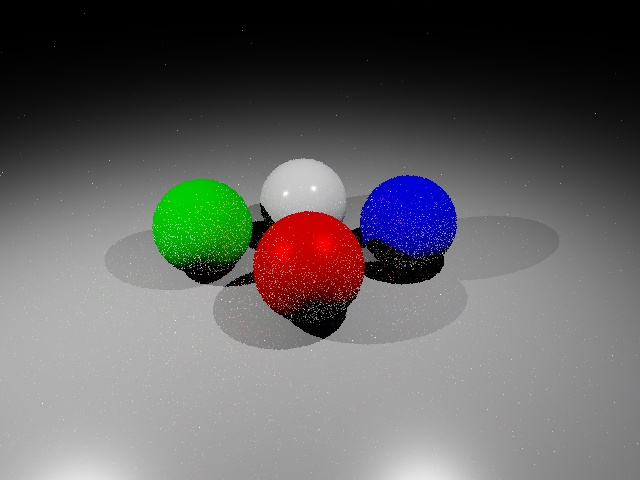
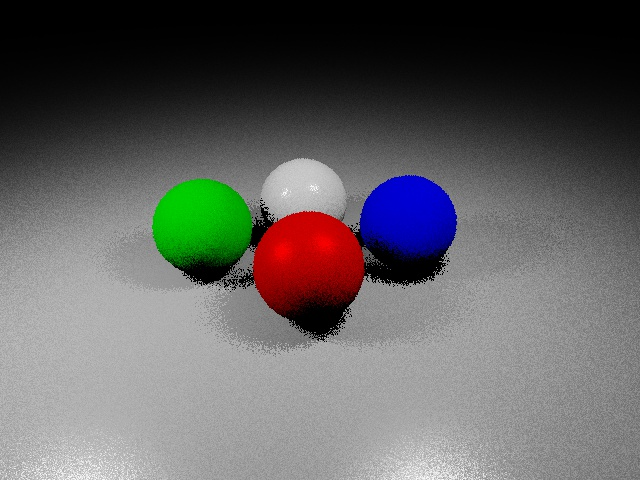
testing

diff --git a/assignment-3/hw3-starterCode/utility.cpp b/assignment-3/hw3-starterCode/utility.cpp
@@ -134,7 +134,9 @@ float Timer::getCurrentTime() {
 const vector<Object*>& Scene::getObjects() { return objects; }
 const vector<Triangle*>& Scene::getTriangles() { return triangles; }
 const vector<Sphere*>& Scene::getSpheres() { return spheres; }
-const vector<Light*>& Scene::getLights() { return lights; }
+const vector<Light*>& Scene::getLights() {
+	return lights;
+}
 void Scene::setAntiAliasingLevel(int antiAliasingLevel) {
 	numOfSubpixelsPerSide = std::max(0, (int)pow(2, std::max(0, antiAliasingLevel)));
 }
@@ -146,7 +148,7 @@ void Scene::setNumOfThreads(int num) {
 }
 void Scene::render() {
 	initializePixels();
-	sampleLights();
+	//sampleLights();
 
 	startTime = Timer::getInstance()->getCurrentTime();
 	printf("Rendering %s... \n", inputFilename);
@@ -450,7 +452,8 @@ int OpticalScene::load(const char* argv) {
 }
 void OpticalScene::calculatePixelColor(Pixel& pixel) {
 	// stratified sampling
-	vec3 color = ambient_light;
+	//vec3 color = ambient_light;
+	vec3 color;
 	vec3 rayColor;
 
 	float subcellSize = pixel.size / numOfSubpixelsPerSide;
@@ -620,46 +623,48 @@ vec3 OpticalMaterial::calculateLighting(Scene* scene, Ray& ray, vec3 position) {
 	vec3 color(0);
 
 	auto lights = scene->getLights();
-	for (int i = 0; i < lights.size(); i++) {
+	for (auto& light : lights) {
 		vec3 Le(0);
+		vec3 lightPosition = light->sample();
 
-		vec3 w_i = normalize(lights[i]->position - position);
+		vec3 w_i = normalize(lightPosition - position);
 		if (dot(w_i, normal) > 0.0f) {
 			Ray shadowRay(position, position + w_i);
-			if (!shadowRay.checkIfBlocked(scene->getObjects(), lights[i]->position)) {
-				Le = lights[i]->color;
+			if (!shadowRay.checkIfBlocked(scene->getObjects(), lightPosition)) {
+				Le = light->color;
 			}
 		}
-		float pdf = pow(distance(position, lights[i]->position), 2) / (abs(dot(lights[i]->normal, w_i)) * lights[i]->area());
+		float pdf = pow(distance(position, lightPosition), 2) / (abs(dot(light->normal, w_i)) * light->area());
 
 		float f0 = (scene->F0.x + scene->F0.y + scene->F0.z) / 3;
 		color += BRDF(f0, Le, normal, pdf, position, w_i, -ray.direction);
+
 	}
 
-	if (scene->isGlobalLightingEnabled) {
+	//if (scene->isGlobalLightingEnabled) {
 
-		vec3 w = (dot(normal, ray.direction) < 0) ? normal : -normal;
-		vec3 u = normalize(cross((abs(w.x) > 0.1) ? vec3(0.0, 1.0, 0.0) : vec3(1.0, 0.0, 0.0), w));
-		vec3 v = cross(w, u);
+	//	vec3 w = (dot(normal, ray.direction) < 0) ? normal : -normal;
+	//	vec3 u = normalize(cross((abs(w.x) > 0.1) ? vec3(0.0, 1.0, 0.0) : vec3(1.0, 0.0, 0.0), w));
+	//	vec3 v = cross(w, u);
 
-		float r1 = getRandom(); // random number between 0 and 1
-		float r2 = getRandom(); // random number between 0 and 1
-		// Compute the angle around the normal
-		float theta = 2 * PI * r1;
+	//	float r1 = getRandom(); // random number between 0 and 1
+	//	float r2 = getRandom(); // random number between 0 and 1
+	//	// Compute the angle around the normal
+	//	float theta = 2 * PI * r1;
 
-		float cos_theta = sqrt(1.0 - r1);
-		float sin_theta = sqrt(r1);
-		float phi = 2.0 * PI * r2;
-		vec3 d = vec3(cos(phi) * sin_theta, sin(phi) * sin_theta, cos_theta);
+	//	float cos_theta = sqrt(1.0 - r1);
+	//	float sin_theta = sqrt(r1);
+	//	float phi = 2.0 * PI * r2;
+	//	vec3 d = vec3(cos(phi) * sin_theta, sin(phi) * sin_theta, cos_theta);
 
-		vec3 dir = normalize(d.x * u + d.y * v + d.z * w);
+	//	vec3 dir = normalize(d.x * u + d.y * v + d.z * w);
 
-		ray.start = position;
-		ray.direction = dir;
+	//	ray.start = position;
+	//	ray.direction = dir;
 
-		vec3 reflection = ray.calculateRayColor(scene);
-		color += reflection * std::max(dot(normal, ray.direction), 0.0f);
-	}
+	//	vec3 reflection = ray.calculateRayColor(scene);
+	//	color += reflection * std::max(dot(normal, ray.direction), 0.0f);
+	//}
 	return color;
 }
 Material* OpticalMaterial::interpolates(Material* m1, Material* m2, vec3 bary) {
@@ -808,6 +813,26 @@ Light::Light(vec3 position, vec3 color, vec3 normal, vector<vec3> p) {
 float Light::area() {
 	if (p.size() < 4) return 0;
 	return distance(p[1], p[0]) * distance(p[0], p[2]);
+}
+vec3 Light::sample() {
+	vec3 pos;
+	float U1 = getRandom();
+	float U2 = getRandom();
+	if (p.size() < 3) {
+		float U3 = getRandom();
+		U1 -= 0.5f;
+		U2 -= 0.5f;
+		U3 -= 0.5f;
+		pos = position + vec3(U1, U2, U3);
+	}
+	else {
+		vec3 p0 = p[0];
+		vec3 p1 = p[1];
+		vec3 p2 = p[2];
+		vec3 p3 = p[3];
+		pos = (1 - U1) * (p0 * (1 - U2) + p1 * U2) + U1 * (p2 * (1 - U2) + p3 * U2);
+	}
+	return pos;
 }
 vector<Light*> Light::getSamples(int numOfSamples) {
 	vector<Light*> samples;

diff --git a/assignment-3/hw3-starterCode/utility.h b/assignment-3/hw3-starterCode/utility.h
@@ -333,7 +333,8 @@ public:
 
 	Light(vec3 position, vec3 color, vec3 normal = vec3(0), vector<vec3> p = vector<vec3>());
 
-	float area();
+	float area(); 
+	vec3 sample();
 	vector<Light*> getSamples(int numOfSamples);
 };
 
